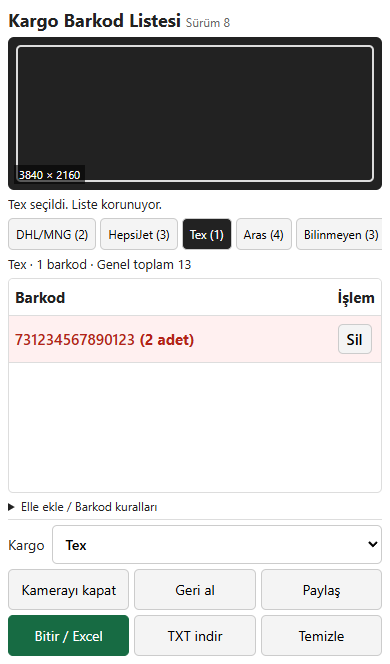
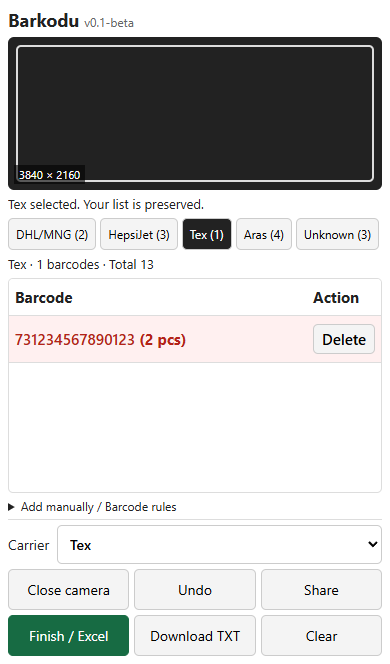
Prepare English v0.1-beta web application

diff --git a/BarkodListe/app.js b/BarkodListe/app.js
@@ -5,7 +5,7 @@ const CARRIERS = [
   {id:'hepsi', name:'HepsiJet', prefixes:['416','H0','HTS']},
   {id:'tex', name:'Tex', prefixes:['73']},
   {id:'aras', name:'Aras', prefixes:['72','P0','A0','FL0']},
-  {id:'unknown', name:'Bilinmeyen', prefixes:[]}
+  {id:'unknown', name:'Unknown', prefixes:[]}
 ];
 const STORAGE = 'barkod-kargolar-v8';
 let items = [], history = [], selected = '', activeTab = 'dhl';
@@ -18,10 +18,10 @@ try {
   if (stored && Array.isArray(stored.history)) history=stored.history.slice(-100).filter(x=>x && (Array.isArray(x.items)||['add','remove','clear'].includes(x.type)));
   activeTab=selected || (items.length?'unknown':'dhl');
 } catch {}
-function cargoName(id) {return CARRIERS.find(x=>x.id===id)?.name || 'Bilinmeyen';}
+function cargoName(id) {return CARRIERS.find(x=>x.id===id)?.name || 'Unknown';}
 function save() {
   try {localStorage.setItem(STORAGE,JSON.stringify({items,history,selected}));}
-  catch {status('Liste saklanamadı. Kapatmadan Excel/TXT olarak indirin.');}
+  catch {status('Could not save the list. Export Excel/TXT before closing.');}
 }
 function status(text) {$('status').textContent=text;}
 function checkpoint(action) {history.push({...action,activeTab});if(history.length>100)history.shift();}
@@ -40,12 +40,12 @@ function render() {
       row=document.createElement('tr');
       const cell=document.createElement('td');const label=document.createElement('span');label.textContent=item.code;
       const badge=document.createElement('span');badge.className='duplicate-badge';cell.append(label,badge);
-      const actions=document.createElement('td');const remove=document.createElement('button');remove.textContent='Sil';remove.setAttribute('aria-label',item.code+' barkodunu sil');
-      remove.onclick=()=>{const index=items.findIndex(x=>x.cargo+':'+x.code===key);checkpoint({type:'remove',item:{...items[index]},index});items=items.filter(x=>x.cargo+':'+x.code!==key);render();save();status('Silindi. Geri al ile geri yükleyebilirsiniz.');};
+      const actions=document.createElement('td');const remove=document.createElement('button');remove.textContent='Delete';remove.setAttribute('aria-label',item.code+' barcode: delete');
+      remove.onclick=()=>{const index=items.findIndex(x=>x.cargo+':'+x.code===key);checkpoint({type:'remove',item:{...items[index]},index});items=items.filter(x=>x.cargo+':'+x.code!==key);render();save();status('Deleted. Use Undo to restore.');};
       actions.append(remove);row.append(cell,actions);rowCache.set(key,row);
     }
     row.classList.toggle('duplicate',item.quantity>1);
-    row.querySelector('.duplicate-badge').textContent=item.quantity>1?` (${item.quantity} adet)`:'';
+    row.querySelector('.duplicate-badge').textContent=item.quantity>1?` (${item.quantity} pcs)`:'';
     fragment.append(row);
   }
   $('rows').replaceChildren(fragment);
@@ -54,7 +54,7 @@ function render() {
     const button=$('tab-'+cargo.id);button.textContent=`${cargo.name} (${items.filter(x=>x.cargo===cargo.id).length})`;
     button.setAttribute('aria-selected',String(activeTab===cargo.id));button.classList.toggle('active',activeTab===cargo.id);
   }
-  $('count').textContent=`${cargoName(activeTab)} · ${items.filter(x=>x.cargo===activeTab).length} barkod · Genel toplam ${items.length}`;
+  $('count').textContent=`${cargoName(activeTab)} · ${items.filter(x=>x.cargo===activeTab).length} barcodes · Total ${items.length}`;
   for(const id of ['download','txt','share','clear']) $(id).disabled=!items.length;
   $('undo').disabled=!history.length;
   $('camera').disabled=!selected;
@@ -64,51 +64,51 @@ function classify(code) {
   return cargo?.prefixes.some(prefix=>code.startsWith(prefix))?selected:'unknown';
 }
 function add(code) {
-  if(!selected) {status('Önce kargo seçin.');return false;}
+  if(!selected) {status('Select a carrier first.');return false;}
   code=code.trim().toUpperCase();
-  if(!validCode(code)) {status('Barkod 3–64 harf veya rakam içermeli.');return false;}
+  if(!validCode(code)) {status('A barcode must contain 3–64 letters or digits.');return false;}
   const cargo=classify(code),existing=items.find(x=>x.code===code&&x.cargo===cargo);
   checkpoint({type:'add',cargo,code,previous:existing?{...existing}:null,index:items.indexOf(existing)});
   if(existing) {existing.quantity++;items=items.filter(x=>x!==existing);items.unshift(existing);}
   else items.unshift({code,cargo,quantity:1});
   activeTab=cargo;render();save();$('list-area').scrollTop=0;
-  status(`${cargoName(cargo)} · ${code}${existing?' tekrar okundu':''}`);showSuccess();return true;
+  status(`${cargoName(cargo)} · ${code}${existing?' scanned again':''}`);showSuccess();return true;
 }
 $('cargo').value=selected;
-$('cargo').onchange=()=>{selected=$('cargo').value;if(selected)activeTab=selected;else stopCamera();render();save();status(selected?`${cargoName(selected)} seçildi. Liste korunuyor.`:'Önce kargo seçin.');};
+$('cargo').onchange=()=>{selected=$('cargo').value;if(selected)activeTab=selected;else stopCamera();render();save();status(selected?`${cargoName(selected)} selected. Your list is preserved.`:'Select a carrier first.');};
 for(const c of CARRIERS) $('tab-'+c.id).onclick=()=>{activeTab=c.id;render();$('list-area').scrollTop=0;};
 $('undo').onclick=()=>{const previous=history.pop();if(!previous)return;if(previous.items) items=previous.items;
   else if(previous.type==='clear')items=previous.previous;
   else if(previous.type==='remove')items.splice(previous.index,0,previous.item);
   else {items=items.filter(x=>!(x.code===previous.code&&x.cargo===previous.cargo));if(previous.previous)items.splice(previous.index,0,previous.previous);}
-  activeTab=previous.activeTab;render();save();status('Son işlem geri alındı.');};
-$('clear').onclick=()=>{if(confirm('Tüm kargoların listesi temizlensin mi?')) {checkpoint({type:'clear',previous:items.map(x=>({...x}))});items=[];render();save();status('Listeler temizlendi. Geri al ile geri yükleyebilirsiniz.');}};
+  activeTab=previous.activeTab;render();save();status('Last action undone.');};
+$('clear').onclick=()=>{if(confirm('Clear lists for all carriers?')) {checkpoint({type:'clear',previous:items.map(x=>({...x}))});items=[];render();save();status('Lists cleared. Use Undo to restore.');}};
 $('form').onsubmit=event=>{event.preventDefault();if(add($('barcode').value))$('barcode').value='';$('barcode').focus();};
-function exportRows(cargo) {return [['Barkod','Tekrar sayısı'],...items.filter(x=>x.cargo===cargo).map(x=>[x.code,x.quantity])];}
-function filename(extension) {return `kargo-barkodlari-${new Date().toISOString().slice(0,10)}.${extension}`;}
+function exportRows(cargo) {return [['Barcode','Quantity'],...items.filter(x=>x.cargo===cargo).map(x=>[x.code,x.quantity])];}
+function filename(extension) {return `barkodu-${new Date().toISOString().slice(0,10)}.${extension}`;}
 $('download').onclick=()=>{
-  if(!window.XLSX) {status('Excel bileşeni yüklenemedi. TXT indir kullanılabilir.');return;}
+  if(!window.XLSX) {status('Could not load Excel support. Use Download TXT.');return;}
   stopCamera();const book=XLSX.utils.book_new();
   for(const cargo of CARRIERS) {
     const sheet=XLSX.utils.aoa_to_sheet(exportRows(cargo.id));sheet['!cols']=[{wch:35},{wch:15}];
     XLSX.utils.book_append_sheet(book,sheet,cargo.name.replace('/','-'));
   }
-  XLSX.writeFile(book,filename('xlsx'));status('Okutma tamamlandı. Tüm kargolar Excel dosyasına aktarıldı.');
+  XLSX.writeFile(book,filename('xlsx'));status('Scanning complete. All carriers exported to Excel.');
 };
-function textExport() {return CARRIERS.filter(c=>items.some(x=>x.cargo===c.id)).map(c=>`[${c.name}]\n`+items.filter(x=>x.cargo===c.id).map(x=>x.code+(x.quantity>1?` (${x.quantity} adet)`:'')).join('\n')).join('\n\n');}
+function textExport() {return CARRIERS.filter(c=>items.some(x=>x.cargo===c.id)).map(c=>`[${c.name}]\n`+items.filter(x=>x.cargo===c.id).map(x=>x.code+(x.quantity>1?` (${x.quantity} pcs)`:'')).join('\n')).join('\n\n');}
 function downloadTxt() {
   const url=URL.createObjectURL(new Blob(['\uFEFF'+textExport()],{type:'text/plain;charset=utf-8'}));
   const link=document.createElement('a');link.href=url;link.download=filename('txt');document.body.append(link);link.click();link.remove();setTimeout(()=>URL.revokeObjectURL(url),1000);
 }
-$('txt').onclick=()=>{stopCamera();downloadTxt();status('Tüm kargolar TXT dosyasına kaydedildi.');};
+$('txt').onclick=()=>{stopCamera();downloadTxt();status('All carriers saved to TXT.');};
 $('share').onclick=async()=>{
   stopCamera();const file=new File(['\uFEFF'+textExport()],filename('txt'),{type:'text/plain'});
-  if(!navigator.share) {downloadTxt();status('Bu tarayıcı paylaşımı desteklemiyor. TXT indirildi; dosyadan paylaşabilirsiniz.');return;}
+  if(!navigator.share) {downloadTxt();status('Sharing is unavailable in this browser. A TXT file was downloaded for sharing.');return;}
   try {
-    if(navigator.canShare?.({files:[file]})) await navigator.share({files:[file],title:'Kargo barkodları'});
-    else await navigator.share({text:textExport(),title:'Kargo barkodları'});
-    status('Paylaşım tamamlandı.');
-  } catch(error) {if(error.name!=='AbortError') {downloadTxt();status('Paylaşım açılamadı. TXT dosyası indirildi.');}}
+    if(navigator.canShare?.({files:[file]})) await navigator.share({files:[file],title:'Carrier barcodes'});
+    else await navigator.share({text:textExport(),title:'Carrier barcodes'});
+    status('Sharing complete.');
+  } catch(error) {if(error.name!=='AbortError') {downloadTxt();status('Could not open sharing. A TXT file was downloaded.');}}
 };
 
 let stream, running = false, frameRequest, detector, decoder, currentCode = '', missedFrames = 0;
@@ -171,8 +171,8 @@ function stopCamera() {
   currentCode = ''; missedFrames = 0;
 }
 $('camera').onclick = async () => {
-  if (!selected) {status('Önce kargo seçin.'); return;}
-  if (!window.isSecureContext || !navigator.mediaDevices?.getUserMedia) {status('Kamera için HTTPS adresinden açın.'); return;}
+  if (!selected) {status('Select a carrier first.'); return;}
+  if (!window.isSecureContext || !navigator.mediaDevices?.getUserMedia) {status('Open an HTTPS address to use the camera.'); return;}
   $('camera').disabled = true;
   try {
     detector = null; decoder = null;
@@ -204,11 +204,11 @@ $('camera').onclick = async () => {
     $('scan-area').classList.add('scanning'); $('camera').hidden=true; $('stop').hidden=false;
     const settings = track.getSettings();
     $('resolution').textContent = `${settings.width || '?'} × ${settings.height || '?'}`;
-    status('Kamera açık · Yatay veya dikey okutun.');
+    status('Camera on · Scan horizontally or vertically.');
     frameRequest = requestAnimationFrame(scanLoop);
-  } catch {stopCamera();status('Kamera açılamadı. Kamera iznini ve internet bağlantısını kontrol edin.');}
+  } catch {stopCamera();status('Could not start the camera. Check camera permission and your internet connection.');}
   finally {$('camera').disabled=!selected;}
 };
-$('stop').onclick = () => {stopCamera();status('Kamera kapatıldı.');};
+$('stop').onclick = () => {stopCamera();status('Camera stopped.');};
 window.addEventListener('pagehide', stopCamera);
 render();

diff --git a/BarkodListe/cargo-main.js b/BarkodListe/cargo-main.js
@@ -5,7 +5,7 @@ const CARRIERS = [
   {id:'hepsi', name:'HepsiJet', prefixes:['416','H0','HTS']},
   {id:'tex', name:'Tex', prefixes:['73']},
   {id:'aras', name:'Aras', prefixes:['72','P0','A0','FL0']},
-  {id:'unknown', name:'Bilinmeyen', prefixes:[]}
+  {id:'unknown', name:'Unknown', prefixes:[]}
 ];
 const STORAGE = 'barkod-kargolar-v8';
 let items = [], history = [], selected = '', activeTab = 'dhl';
@@ -18,10 +18,10 @@ try {
   if (stored && Array.isArray(stored.history)) history=stored.history.slice(-100).filter(x=>Array.isArray(x.items));
   activeTab=selected || (items.length?'unknown':'dhl');
 } catch {}
-function cargoName(id) {return CARRIERS.find(x=>x.id===id)?.name || 'Bilinmeyen';}
+function cargoName(id) {return CARRIERS.find(x=>x.id===id)?.name || 'Unknown';}
 function save() {
   try {localStorage.setItem(STORAGE,JSON.stringify({items,history,selected}));}
-  catch {status('Liste saklanamadı. Kapatmadan Excel/TXT olarak indirin.');}
+  catch {status('Could not save the list. Export Excel/TXT before closing.');}
 }
 function status(text) {$('status').textContent=text;}
 function checkpoint() {history.push({items:items.map(x=>({...x})),activeTab});if(history.length>100)history.shift();}
@@ -40,12 +40,12 @@ function render() {
       row=document.createElement('tr');
       const cell=document.createElement('td');const label=document.createElement('span');label.textContent=item.code;
       const badge=document.createElement('span');badge.className='duplicate-badge';cell.append(label,badge);
-      const actions=document.createElement('td');const remove=document.createElement('button');remove.textContent='Sil';remove.setAttribute('aria-label',item.code+' barkodunu sil');
-      remove.onclick=()=>{checkpoint();items=items.filter(x=>x.cargo+':'+x.code!==key);render();save();status('Silindi. Geri al ile geri yükleyebilirsiniz.');};
+      const actions=document.createElement('td');const remove=document.createElement('button');remove.textContent='Delete';remove.setAttribute('aria-label',item.code+' barcode: delete');
+      remove.onclick=()=>{checkpoint();items=items.filter(x=>x.cargo+':'+x.code!==key);render();save();status('Deleted. Use Undo to restore.');};
       actions.append(remove);row.append(cell,actions);rowCache.set(key,row);
     }
     row.classList.toggle('duplicate',item.quantity>1);
-    row.querySelector('.duplicate-badge').textContent=item.quantity>1?` (${item.quantity} adet)`:'';
+    row.querySelector('.duplicate-badge').textContent=item.quantity>1?` (${item.quantity} pcs)`:'';
     fragment.append(row);
   }
   $('rows').replaceChildren(fragment);
@@ -54,7 +54,7 @@ function render() {
     const button=$('tab-'+cargo.id);button.textContent=`${cargo.name} (${items.filter(x=>x.cargo===cargo.id).length})`;
     button.setAttribute('aria-selected',String(activeTab===cargo.id));button.classList.toggle('active',activeTab===cargo.id);
   }
-  $('count').textContent=`${cargoName(activeTab)} · ${items.filter(x=>x.cargo===activeTab).length} barkod · Genel toplam ${items.length}`;
+  $('count').textContent=`${cargoName(activeTab)} · ${items.filter(x=>x.cargo===activeTab).length} barcodes · Total ${items.length}`;
   for(const id of ['download','txt','share','clear']) $(id).disabled=!items.length;
   $('undo').disabled=!history.length;
   $('camera').disabled=!selected;
@@ -64,45 +64,45 @@ function classify(code) {
   return cargo?.prefixes.some(prefix=>code.startsWith(prefix))?selected:'unknown';
 }
 function add(code) {
-  if(!selected) {status('Önce kargo seçin.');return false;}
+  if(!selected) {status('Select a carrier first.');return false;}
   code=code.trim().toUpperCase();
-  if(!validCode(code)) {status('Barkod 3–64 harf veya rakam içermeli.');return false;}
+  if(!validCode(code)) {status('A barcode must contain 3–64 letters or digits.');return false;}
   checkpoint();
   const cargo=classify(code),existing=items.find(x=>x.code===code&&x.cargo===cargo);
   if(existing) {existing.quantity++;items=items.filter(x=>x!==existing);items.unshift(existing);}
   else items.unshift({code,cargo,quantity:1});
   activeTab=cargo;render();save();$('list-area').scrollTop=0;
-  status(`${cargoName(cargo)} · ${code}${existing?' tekrar okundu':''}`);showSuccess();return true;
+  status(`${cargoName(cargo)} · ${code}${existing?' scanned again':''}`);showSuccess();return true;
 }
 $('cargo').value=selected;
-$('cargo').onchange=()=>{selected=$('cargo').value;if(selected)activeTab=selected;render();save();status(selected?`${cargoName(selected)} seçildi. Liste korunuyor.`:'Önce kargo seçin.');};
+$('cargo').onchange=()=>{selected=$('cargo').value;if(selected)activeTab=selected;render();save();status(selected?`${cargoName(selected)} selected. Your list is preserved.`:'Select a carrier first.');};
 for(const c of CARRIERS) $('tab-'+c.id).onclick=()=>{activeTab=c.id;render();$('list-area').scrollTop=0;};
-$('undo').onclick=()=>{const previous=history.pop();if(!previous)return;items=previous.items;activeTab=previous.activeTab;render();save();status('Son işlem geri alındı.');};
-$('clear').onclick=()=>{if(confirm('Tüm kargoların listesi temizlensin mi?')) {checkpoint();items=[];render();save();status('Listeler temizlendi. Geri al ile geri yükleyebilirsiniz.');}};
+$('undo').onclick=()=>{const previous=history.pop();if(!previous)return;items=previous.items;activeTab=previous.activeTab;render();save();status('Last action undone.');};
+$('clear').onclick=()=>{if(confirm('Clear lists for all carriers?')) {checkpoint();items=[];render();save();status('Lists cleared. Use Undo to restore.');}};
 $('form').onsubmit=event=>{event.preventDefault();if(add($('barcode').value))$('barcode').value='';$('barcode').focus();};
-function exportRows(cargo) {return [['Barkod','Tekrar sayısı'],...items.filter(x=>x.cargo===cargo).map(x=>[x.code,x.quantity])];}
-function filename(extension) {return `kargo-barkodlari-${new Date().toISOString().slice(0,10)}.${extension}`;}
+function exportRows(cargo) {return [['Barcode','Quantity'],...items.filter(x=>x.cargo===cargo).map(x=>[x.code,x.quantity])];}
+function filename(extension) {return `barkodu-${new Date().toISOString().slice(0,10)}.${extension}`;}
 $('download').onclick=()=>{
-  if(!window.XLSX) {status('Excel bileşeni yüklenemedi. TXT indir kullanılabilir.');return;}
+  if(!window.XLSX) {status('Could not load Excel support. Use Download TXT.');return;}
   stopCamera();const book=XLSX.utils.book_new();
   for(const cargo of CARRIERS) {
     const sheet=XLSX.utils.aoa_to_sheet(exportRows(cargo.id));sheet['!cols']=[{wch:35},{wch:15}];
     XLSX.utils.book_append_sheet(book,sheet,cargo.name.replace('/','-'));
   }
-  XLSX.writeFile(book,filename('xlsx'));status('Okutma tamamlandı. Tüm kargolar Excel dosyasına aktarıldı.');
+  XLSX.writeFile(book,filename('xlsx'));status('Scanning complete. All carriers exported to Excel.');
 };
-function textExport() {return CARRIERS.filter(c=>items.some(x=>x.cargo===c.id)).map(c=>`[${c.name}]\n`+items.filter(x=>x.cargo===c.id).map(x=>x.code+(x.quantity>1?` (${x.quantity} adet)`:'')).join('\n')).join('\n\n');}
+function textExport() {return CARRIERS.filter(c=>items.some(x=>x.cargo===c.id)).map(c=>`[${c.name}]\n`+items.filter(x=>x.cargo===c.id).map(x=>x.code+(x.quantity>1?` (${x.quantity} pcs)`:'')).join('\n')).join('\n\n');}
 function downloadTxt() {
   const url=URL.createObjectURL(new Blob(['\uFEFF'+textExport()],{type:'text/plain;charset=utf-8'}));
   const link=document.createElement('a');link.href=url;link.download=filename('txt');document.body.append(link);link.click();link.remove();setTimeout(()=>URL.revokeObjectURL(url),1000);
 }
-$('txt').onclick=()=>{stopCamera();downloadTxt();status('Tüm kargolar TXT dosyasına kaydedildi.');};
+$('txt').onclick=()=>{stopCamera();downloadTxt();status('All carriers saved to TXT.');};
 $('share').onclick=async()=>{
   stopCamera();const file=new File(['\uFEFF'+textExport()],filename('txt'),{type:'text/plain'});
-  if(!navigator.share) {downloadTxt();status('Bu tarayıcı paylaşımı desteklemiyor. TXT indirildi; dosyadan paylaşabilirsiniz.');return;}
+  if(!navigator.share) {downloadTxt();status('Sharing is unavailable in this browser. A TXT file was downloaded for sharing.');return;}
   try {
-    if(navigator.canShare?.({files:[file]})) await navigator.share({files:[file],title:'Kargo barkodları'});
-    else await navigator.share({text:textExport(),title:'Kargo barkodları'});
-    status('Paylaşım tamamlandı.');
-  } catch(error) {if(error.name!=='AbortError') {downloadTxt();status('Paylaşım açılamadı. TXT dosyası indirildi.');}}
+    if(navigator.canShare?.({files:[file]})) await navigator.share({files:[file],title:'Carrier barcodes'});
+    else await navigator.share({text:textExport(),title:'Carrier barcodes'});
+    status('Sharing complete.');
+  } catch(error) {if(error.name!=='AbortError') {downloadTxt();status('Could not open sharing. A TXT file was downloaded.');}}
 };

diff --git a/BarkodListe/index.html b/BarkodListe/index.html
@@ -1,16 +1,16 @@
 <!doctype html>
-<html lang="tr"><head><meta charset="utf-8"><meta name="viewport" content="width=device-width,initial-scale=1,viewport-fit=cover"><title>Kargo Barkod Listesi</title>
+<html lang="en"><head><meta charset="utf-8"><meta name="viewport" content="width=device-width,initial-scale=1,viewport-fit=cover"><title>Barkodu</title>
 <style>
 *{box-sizing:border-box}html,body{margin:0;height:100%;font:16px system-ui,sans-serif;color:#222;background:#f5f5f5}body{overflow:hidden}main{height:100dvh;max-width:760px;margin:auto;background:white;padding:8px;padding-bottom:max(8px,env(safe-area-inset-bottom));display:grid;grid-template-rows:auto minmax(80px,23dvh) auto auto auto minmax(60px,1fr) auto auto;gap:5px;overflow:hidden}h1{font-size:18px;margin:0}h1 small{font-size:12px;font-weight:400;color:#666}button,input,select{font:inherit;padding:9px;border:1px solid #ccc;border-radius:5px}button{cursor:pointer;background:#f4f4f4}button[hidden]{display:none!important}button:disabled{opacity:.45}.primary{background:#176b43;color:white;border-color:#176b43}#scan-area{position:relative;min-height:0;overflow:hidden;background:#222;border-radius:6px;width:100%;height:100%}#reader{width:100%;height:100%;overflow:hidden}#video{display:block;width:100%!important;height:100%!important;max-height:100%!important;object-fit:contain}#scan-frame{display:none;position:absolute;inset:8px;border:2px solid #ddd;border-radius:5px;pointer-events:none}.scanning #scan-frame{display:block}.scan-success #scan-frame{border:4px solid #20c35a}#scan-check{display:none;position:absolute;top:8px;right:8px;background:#20c35a;color:white;border-radius:50%;padding:4px 10px;font-size:24px}.scan-success #scan-check{display:block}#resolution{position:absolute;bottom:6px;left:6px;color:white;background:#0009;padding:2px 5px;font-size:11px}#status,#count{margin:0;font-size:13px;min-height:18px}#status{max-height:36px;overflow:auto}#status.success{color:#176b43}.tabs{display:flex;overflow-x:auto;gap:4px;min-width:0;white-space:nowrap}.tabs button{font-size:12px;padding:7px;flex-shrink:0}.tabs .active{background:#222;color:white}.table{min-height:0;overflow:auto;border:1px solid #ddd;border-radius:5px}table{width:100%;border-collapse:collapse;font-size:15px}thead{position:sticky;top:0;background:white;z-index:1}td,th{text-align:left;padding:8px 6px;border-bottom:1px solid #ddd}td:first-child{word-break:break-all}td:last-child{width:48px}td button{padding:4px 8px}.duplicate{color:#b42318;background:#fff0f0}.duplicate-badge{font-weight:700;white-space:nowrap}#rows tr:first-child{font-weight:600}#empty{padding:10px;font-size:14px;color:#666}details{font-size:12px;max-height:100px;overflow:auto}summary{cursor:pointer}form{display:flex;gap:5px;margin-top:5px}input{min-width:0;flex:1}.note{color:#666;margin:5px 0}footer{border-top:1px solid #ddd;padding-top:5px;display:grid;gap:5px}.cargo-select{display:flex;align-items:center;gap:8px;font-size:14px}.cargo-select select{flex:1;min-width:0;font-weight:600;padding:8px}.actions{display:grid;grid-template-columns:repeat(3,1fr);gap:5px}.actions button{font-size:14px;padding:10px 4px;min-height:40px}@media(max-height:500px){main{grid-template-rows:auto minmax(50px,19dvh) auto auto auto minmax(40px,1fr) auto auto;gap:2px}h1{font-size:15px}.actions{grid-template-columns:repeat(6,1fr)}.actions button{font-size:12px;padding:5px;min-height:30px}.cargo-select select{padding:4px}.tabs button{padding:4px}td,th{padding:4px}details{max-height:55px}}
 </style>
 <script defer src="https://unpkg.com/@zxing/library@0.21.3/umd/index.min.js"></script><script defer src="https://cdn.sheetjs.com/xlsx-0.20.3/package/dist/xlsx.full.min.js"></script><script defer src="app.js?v=8"></script>
 </head><body><main>
-<h1>Kargo Barkod Listesi <small>Sürüm 8</small></h1>
+<h1>Barkodu <small>v0.1-beta</small></h1>
 <div id="scan-area"><div id="reader"><video id="video" autoplay muted playsinline></video></div><div id="scan-frame"><span id="scan-check" aria-hidden="true">✓</span></div><span id="resolution"></span></div>
-<p id="status" role="status" aria-live="polite">Başlamak için aşağıdan kargo seçin.</p>
-<div class="tabs" role="tablist" aria-label="Kargo listeleri"><button id="tab-dhl" role="tab" aria-controls="list-area">DHL/MNG</button><button id="tab-hepsi" role="tab" aria-controls="list-area">HepsiJet</button><button id="tab-tex" role="tab" aria-controls="list-area">Tex</button><button id="tab-aras" role="tab" aria-controls="list-area">Aras</button><button id="tab-unknown" role="tab" aria-controls="list-area">Bilinmeyen</button></div>
-<p id="count">Liste boş.</p>
-<div class="table" id="list-area" role="tabpanel" tabindex="0" aria-label="Barkod listesi"><table><thead><tr><th>Barkod</th><th>İşlem</th></tr></thead><tbody id="rows"></tbody></table><p id="empty">Bu kargoda henüz barkod yok.</p></div>
-<details><summary>Elle ekle / Barkod kuralları</summary><form id="form"><input id="barcode" aria-label="Barkod" placeholder="Barkod" pattern="[A-Za-z0-9]{3,64}" autocapitalize="characters" autocomplete="off" required minlength="3" maxlength="64"><button>Ekle</button></form><p class="note">DHL/MNG: 416, HTS · HepsiJet: 416, H0, HTS · Tex: 73 · Aras: 72, P0, A0, FL0. Seçilen kargoya uymayanlar Bilinmeyen'e eklenir. 417 henüz etkin değil. QR okunmaz. Liste bu tarayıcıda saklanır.</p></details>
-<footer><label class="cargo-select" for="cargo">Kargo<select id="cargo"><option value="">Kargo seçin</option><option value="dhl">DHL/MNG</option><option value="hepsi">HepsiJet</option><option value="tex">Tex</option><option value="aras">Aras</option></select></label><div class="actions"><button id="camera" class="primary" disabled>Kamerayı aç</button><button id="stop" hidden>Kamerayı kapat</button><button id="undo" disabled>Geri al</button><button id="share" disabled>Paylaş</button><button id="download" class="primary" disabled>Bitir / Excel</button><button id="txt" disabled>TXT indir</button><button id="clear" disabled>Temizle</button></div></footer>
+<p id="status" role="status" aria-live="polite">Select a carrier below to start.</p>
+<div class="tabs" role="tablist" aria-label="Carrier lists"><button id="tab-dhl" role="tab" aria-controls="list-area">DHL/MNG</button><button id="tab-hepsi" role="tab" aria-controls="list-area">HepsiJet</button><button id="tab-tex" role="tab" aria-controls="list-area">Tex</button><button id="tab-aras" role="tab" aria-controls="list-area">Aras</button><button id="tab-unknown" role="tab" aria-controls="list-area">Unknown</button></div>
+<p id="count">List is empty.</p>
+<div class="table" id="list-area" role="tabpanel" tabindex="0" aria-label="Barcode list"><table><thead><tr><th>Barcode</th><th>Action</th></tr></thead><tbody id="rows"></tbody></table><p id="empty">No barcodes for this carrier yet.</p></div>
+<details><summary>Add manually / Barcode rules</summary><form id="form"><input id="barcode" aria-label="Barcode" placeholder="Barcode" pattern="[A-Za-z0-9]{3,64}" autocapitalize="characters" autocomplete="off" required minlength="3" maxlength="64"><button>Add</button></form><p class="note">DHL/MNG: 416, HTS · HepsiJet: 416, H0, HTS · Tex: 73 · Aras: 72, P0, A0, FL0. Codes that do not match the selected carrier go to Unknown. Prefix 417 is not enabled. QR codes are not scanned. Lists are stored in this browser.</p></details>
+<footer><label class="cargo-select" for="cargo">Carrier<select id="cargo"><option value="">Select a carrier</option><option value="dhl">DHL/MNG</option><option value="hepsi">HepsiJet</option><option value="tex">Tex</option><option value="aras">Aras</option></select></label><div class="actions"><button id="camera" class="primary" disabled>Open camera</button><button id="stop" hidden>Close camera</button><button id="undo" disabled>Undo</button><button id="share" disabled>Share</button><button id="download" class="primary" disabled>Finish / Excel</button><button id="txt" disabled>Download TXT</button><button id="clear" disabled>Clear</button></div></footer>
 </main></body></html>

diff --git a/BarkodListe/README.md b/BarkodListe/README.md
@@ -1,12 +1,7 @@
-# Barkod Listesi
+# Barkodu Web — v0.1-beta
 
-Telefon kamerası veya klavye gibi çalışan barkod okuyucu ile barkod ekler. Tekrarlanan barkodların adedini artırır. Liste bu tarayıcıda saklanır ve gerçek `.xlsx` dosyası olarak indirilir. Barkodlar metin olarak aktarılır; baştaki sıfırlar korunur.
+Scan barcodes with a camera or keyboard-style scanner, organize them by carrier, and export Excel or TXT lists. Repeated codes increase the quantity; leading zeroes are preserved.
 
-## GitHub Pages
+Serve this directory over HTTPS to enable camera access. Camera and Excel libraries load from public CDNs. Lists remain in this browser. Real phone camera testing is pending.
 
-1. GitHub'da bir depo oluşturun.
-2. `index.html` ve `app.js` dosyalarını deponun ana klasörüne yükleyin.
-3. Settings → Pages → Deploy from a branch → main → / (root) → Save.
-4. Yayın adresini HTTPS üzerinden açıp kamera izni verin.
-
-Kamera ve Excel kütüphaneleri internetten yüklenir. Gerçek kamera okuması telefon üzerinde denenmelidir. Ürün adı sorgulanmaz.
+For GitHub Pages, select this directory as the published site content, or copy `index.html` and `app.js` to a separate site's root. No product lookup is performed.
